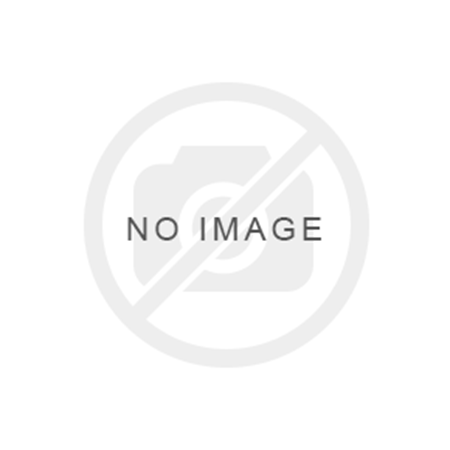
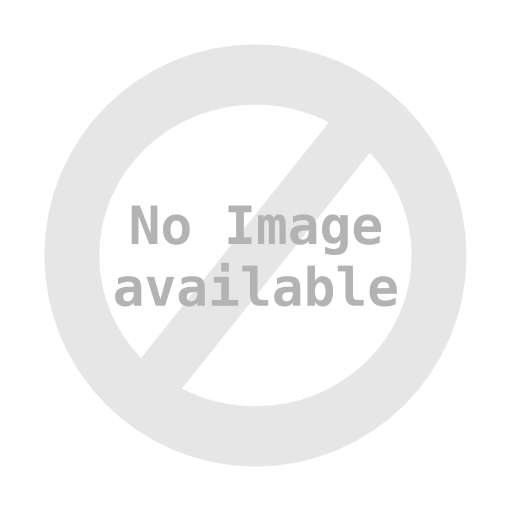
paperclip image fix dashboard upgrade

Changed region(s): [[0.0622, 0.0622, 0.9333, 0.9333], [0.5911, 0.2489, 0.6844, 0.3733], [0.3111, 0.6222, 0.3422, 0.6533]]

diff --git a/app/assets/stylesheets/overrides.css b/app/assets/stylesheets/overrides.css
@@ -71,7 +71,7 @@ ul.dropdown-content.select-dropdown li span {
 }
 
 .success {
-  background: #66bb6a;
+  background: #1b5e20;
   color: white;
 }
 
@@ -96,6 +96,8 @@ ul.dropdown-content.select-dropdown li span {
 h1 {
   text-align: center;
   color: #1b5e20;
+  text-transform: uppercase;
+  font-size: 40px;
 }
 .card .card-content .card-title {
   line-height: 0px
@@ -115,7 +117,7 @@ h1 {
 }
 
 .btn {
-  background-color: #66bb6a;
+  background-color: #1b5e20;
 }
 
 a.btn.home {
@@ -131,6 +133,8 @@ h4 {
 
 h2 {
   color: #5d4037;
+  text-transform: uppercase;
+  font-size; 30px;
 }
 
 .nav-italic {
@@ -236,9 +240,13 @@ input:focus {
 footer.page-footer {
   margin-top: 20px;
   padding-top: 20px;
-  background-color:  #43a047;
+  background-color: #1b5e20;
 }
 
 i.material-icons.left.icon-fave {
   color: #ffab40;
+}
+
+.card-panel.dashboard-card {
+	text-align: center;
 }

diff --git a/app/assets/javascripts/user.js b/app/assets/javascripts/user.js
@@ -7,11 +7,11 @@ $(document).ready(function() {
     valueNames: [ 'first_name', 'last_name', 'email' ]
   };
 
-  var name_options = {
-    valueNames: [ 'item-name' ]
-  };
   var userList = new List('users', options);
 
+  var itemOptions = {
+    valueNames: [ 'item_name', 'item_description', 'item_business_name' ]
+  };
 
-  var newList = new List('active-list', name_options);
+  var newList = new List('items', itemOptions);
 });

diff --git a/app/assets/javascripts/item.js b/app/assets/javascripts/item.js
@@ -1,0 +1,12 @@
+//= require jquery
+//= require jquery_ujs
+//= require list
+//= require_tree .
+
+$(document).ready(function() {
+  var itemOptions = {
+    valueNames: [ 'item_name', 'item_description', 'item_business_name' ]
+  };
+
+  var newList = new List('item-list', itemOptions);
+});

diff --git a/app/controllers/upvotes_controller.rb b/app/controllers/upvotes_controller.rb
@@ -4,18 +4,21 @@ class UpvotesController < ApplicationController
   def edit
     item = Item.find(params[:id])
 
-    item.liked_by current_user
+    if params[:upvote] == "true"
+      item.liked_by current_user
+    else
+      item.unliked_by current_user
+    end
 
-    flash[:notice] = "#{item.name} upvoted!"
     redirect_to :back
 
   end
 
   private
-    def authenticate_user
-      unless current_user
-        flash[:notice] = 'You must login to vote'
-        redirect_to browse_path
-      end
+  def authenticate_user
+    unless current_user
+      flash[:notice] = 'You must login to vote'
+      redirect_to browse_path
     end
+  end
 end

diff --git a/app/models/item.rb b/app/models/item.rb
@@ -10,7 +10,8 @@ class Item < ApplicationRecord
   scope :archived, -> { where(archived: true) }
   scope :active, -> { where(archived: false) }
 
-  has_attached_file :image, default_url: 'default.png'
+  has_attached_file :image, default_url: 'default.png',
+                    :styles => {:medium => "600x600#"}
   validates_attachment_content_type :image, content_type: /\Aimage\/.*\z/
 
   def archive_item

diff --git a/config/routes.rb b/config/routes.rb
@@ -11,6 +11,7 @@ Rails.application.routes.draw do
     resources :archived, only: [:index]
     resources :items
     resources :users
+    resources :search, only: [:index]
   end
 
   get '/dashboard', to: 'users#show', as: :dashboard

diff --git a/app/controllers/admin/active_list_controller.rb b/app/controllers/admin/active_list_controller.rb
@@ -1,0 +1,6 @@
+class Admin::ActiveListController < ApplicationController
+  def index
+    @active = Item.all.active.paginate(:page => params[:page], :per_page => 27)
+  end
+end
+

diff --git a/app/controllers/admin/search_controller.rb b/app/controllers/admin/search_controller.rb
@@ -1,0 +1,5 @@
+class Admin::SearchController < ApplicationController
+  def index
+    @items = Item.all
+  end
+end
